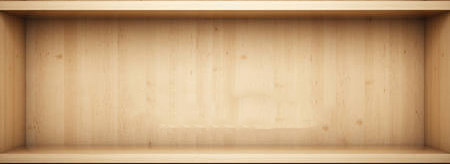
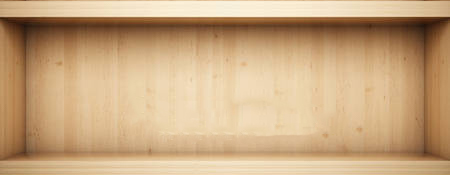
background for books

diff --git a/css/style.css b/css/style.css
@@ -1,8 +1,9 @@
 .main-page {
    padding: 10px 0;
-   background-image: url(../img/books-bg.jpg);
+   /*background-image: url(../img/books-bg.jpg);
    background-repeat: no-repeat;
-   background-size: cover;
+   background-size: cover;*/
+   background: #d4b48b;
 }
 
 
@@ -14,9 +15,10 @@
 .purchased-books,
 .recommended-books,
 .interesting {
-  /*background-image: url(../img/books-bg1.jpg);
+  background-image: url(../img/books-bg1.jpg);
   background-repeat: no-repeat;
-  background-size: cover;*/
+  background-size: 100% 100%;
+  padding-bottom: 3.4em;
 }
 
 .button-to-top {
@@ -38,7 +40,9 @@ z-index: 10;
 
 .carousel-title  {
   text-align: center;
+  margin-bottom: 3em;
 }
+
 .second-page {
   background-image: url(../img/bg_contentblock.png);
 }
@@ -105,6 +109,8 @@ z-index: 10;
   min-height: 320px;
   margin-bottom: 10px;
 }
+
+
 
 @media (min-width: 768px) {
 

diff --git a/carousel-inner.php b/carousel-inner.php
@@ -1,5 +1,5 @@
 <div class="carousel-inner row w-100 mx-auto" role="listbox">
-    <div class="carousel-item col-md-4 col-lg-3 active">
+    <div class="carousel-item  col-md-4 col-lg-3 active">
         <img class="img-fluid mx-auto d-block" src="/img/book.jpg" alt="slide 1">
     </div>
     <div class="carousel-item col-md-4 col-lg-3">
